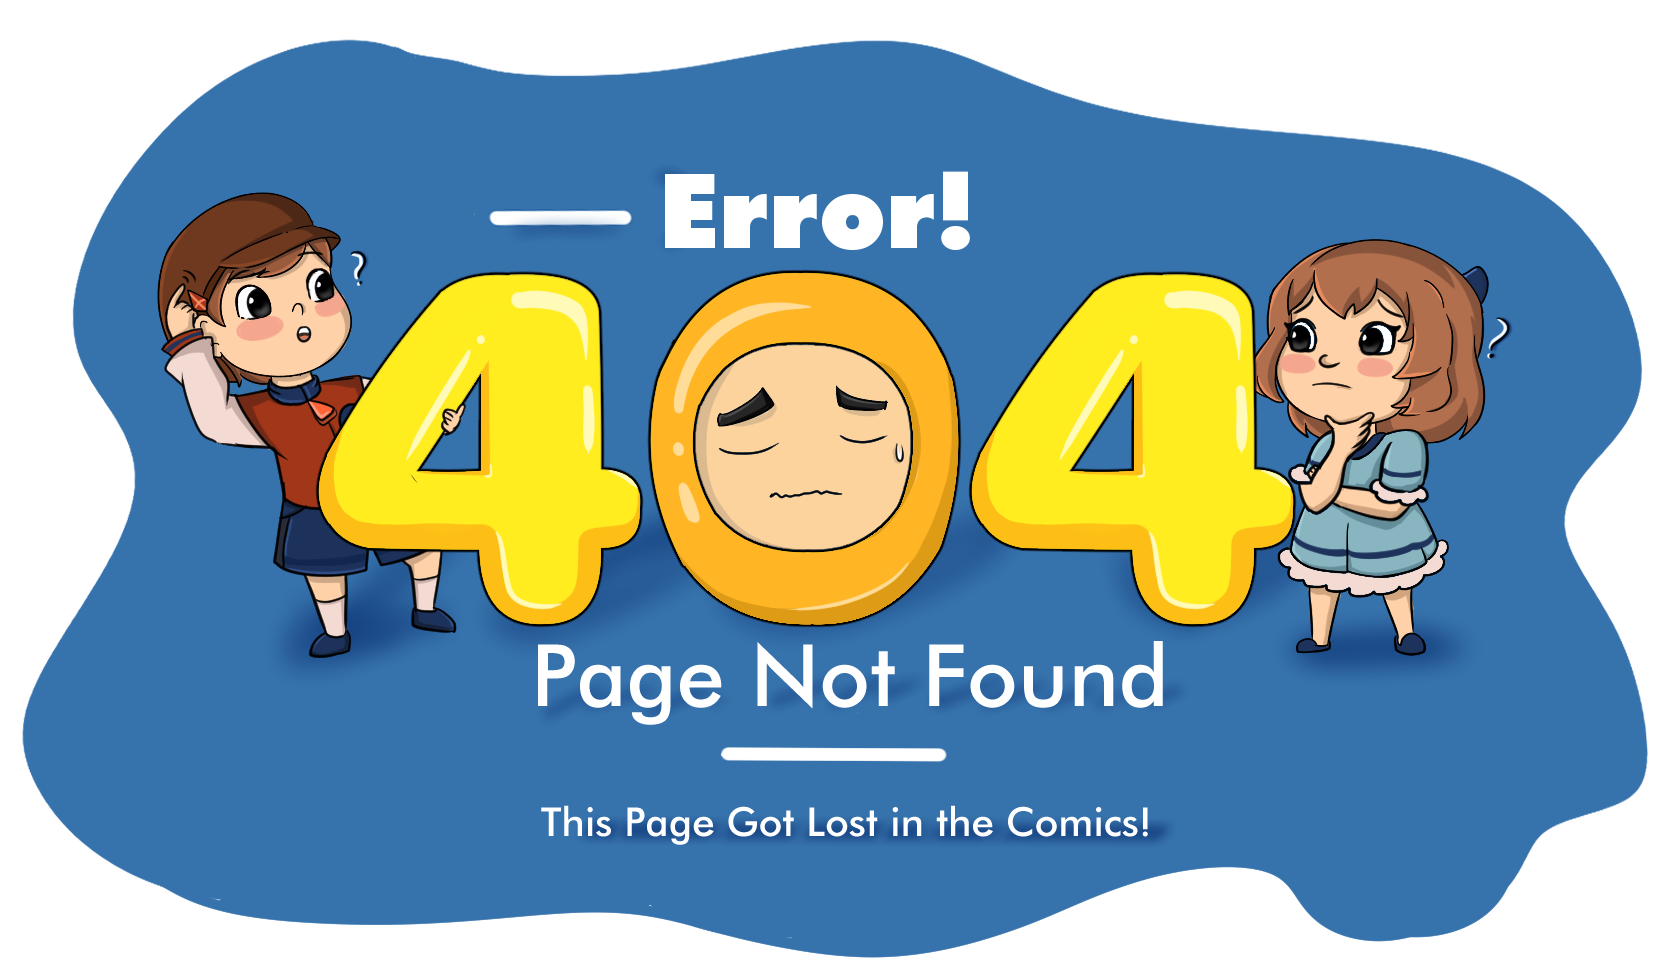
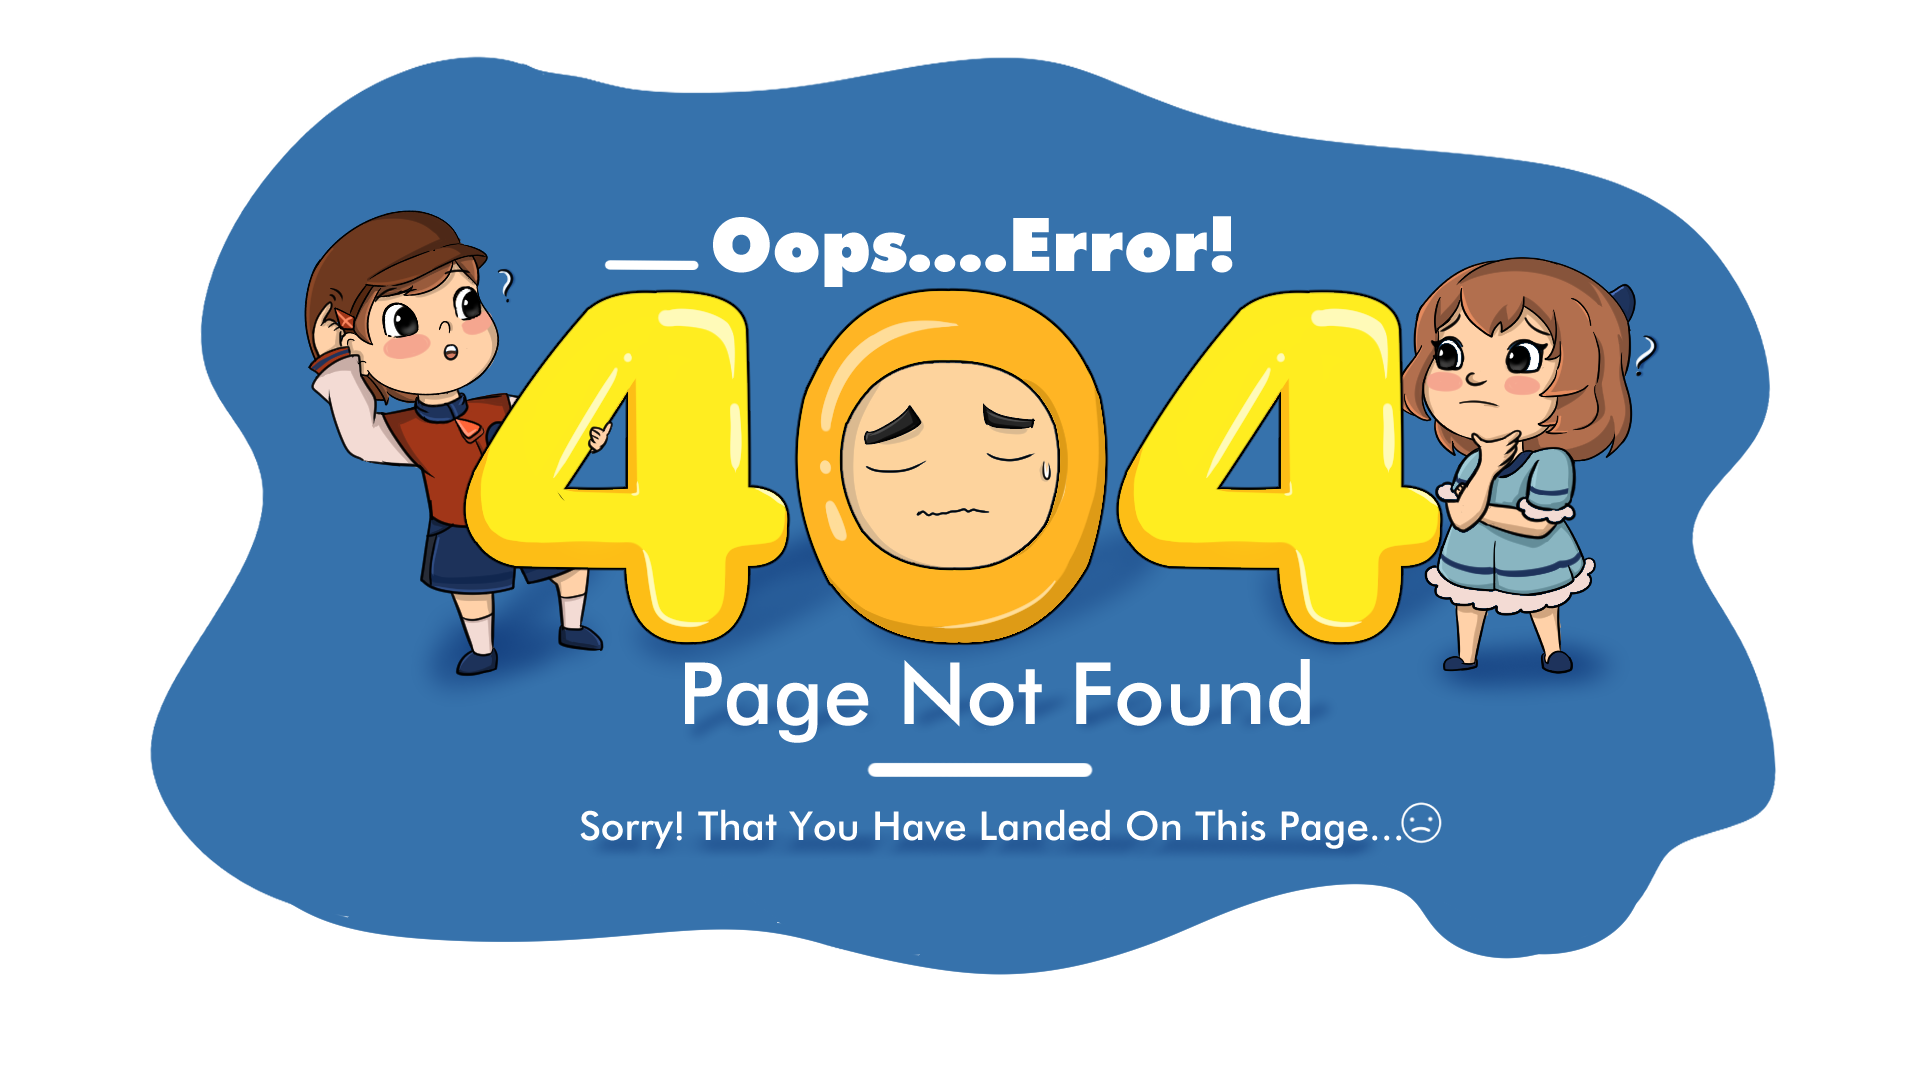
update : not found page

diff --git a/src/pages/NotFound.tsx b/src/pages/NotFound.tsx
@@ -2,6 +2,7 @@ import React from "react";
 import { useNavigate } from "react-router-dom";
 // import Logo from "@/assets/imgs/logo.png";
 import NotFoundImg from "/404page.png";
+import NotFoundCTA from "/404pageCTA.png";
 
 const NotFound: React.FC = () => {
   const navigate = useNavigate();
@@ -17,17 +18,19 @@ const NotFound: React.FC = () => {
     //     Go to Home
     //   </button>
     // </div>
-    <div className="flex flex-col items-center justify-evenly h-[93vh] md:h-full space-y-5">
+    <div className="relative flex flex-col items-center justify-evenly h-[93vh] md:h-full">
       <img
-        className="w-full h-[40%] md:w-[70%] md:h-[70%]"
+        className="w-full h-[40%] md:w-[70%] md:h-[90%] lg:h-[70%]"
         src={NotFoundImg}
         alt="page not found!"
       />
-      <div
-        onClick={() => navigate("/")}
-        className="px-6 py-3 rounded-full font-medium cursor-pointer bg-rose-500 text-white hover:text-rose-500 hover:bg-white border active:scale-95 border-rose-500 transition-all duration-300 ease-in-out"
-      >
-        Return to Home
+      <div className="absolute bottom-[29%] md:-bottom-4 flex items-center justify-center cursor-pointer hover:scale-105 active:scale-95 transition-all duration-300 ease-in-out">
+        <img
+          onClick={() => navigate("/")}
+          className="w-1/2 lg:w-[70%]"
+          src={NotFoundCTA}
+          alt="home cta button"
+        />
       </div>
     </div>
   );
